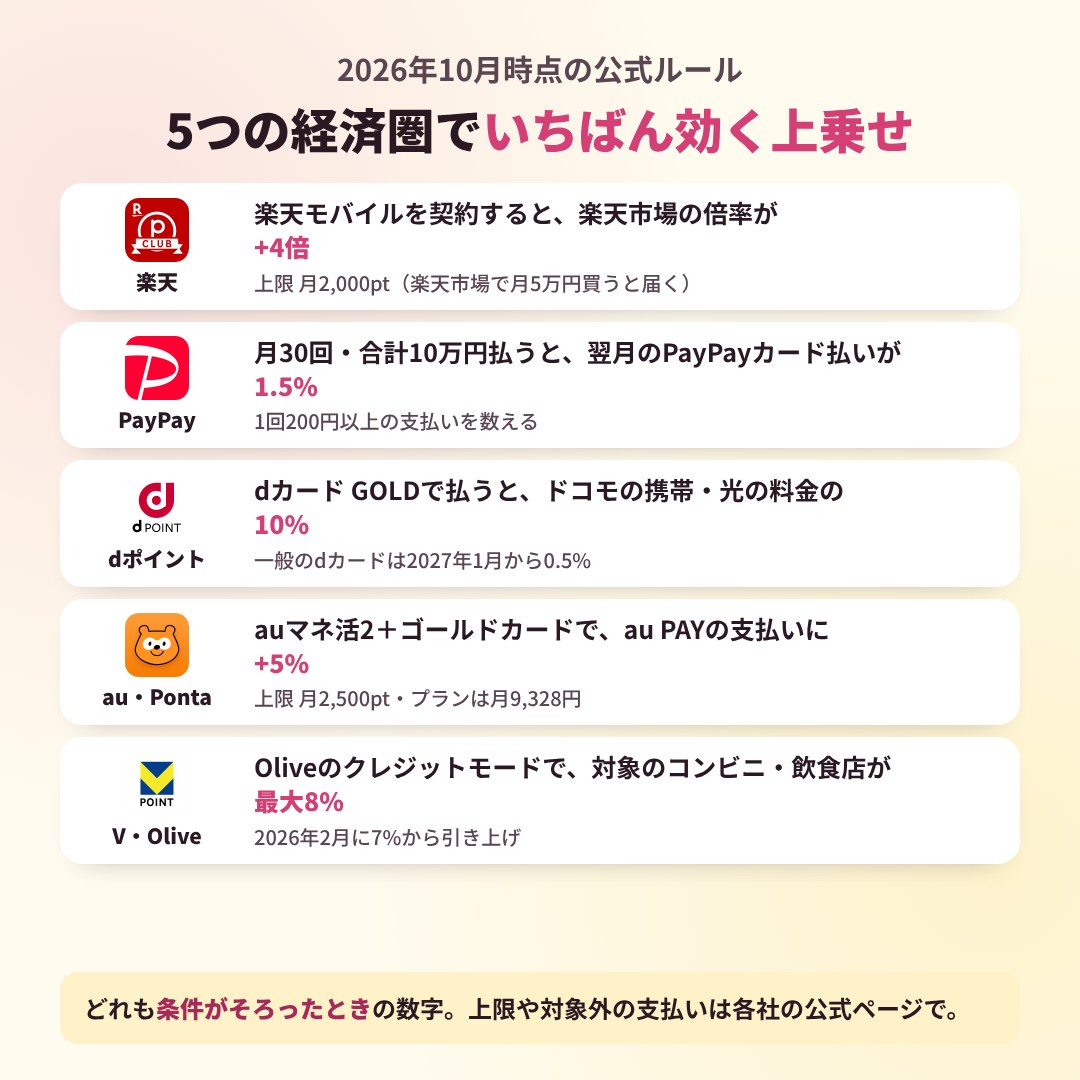
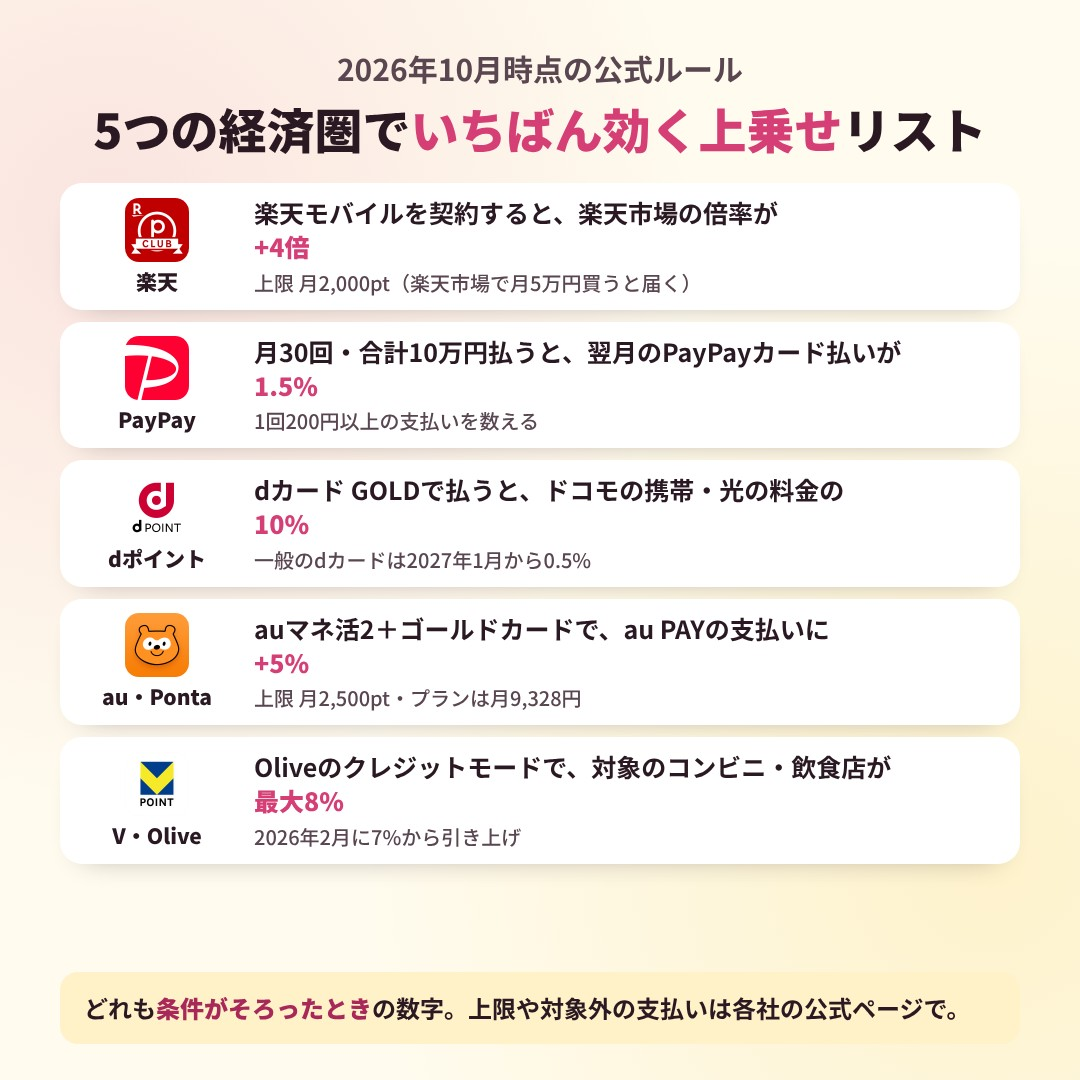
ポイント経済圏: 利用者のレビュー 6 件と [2/2] の書き換えを反映（画像 2 枚に・見出しにリスト・冒頭を効率の軸に・実績の言い方を柔らかく）
Claude-Session: https://claude.ai/code/session_01H2JQqdMCeKNiMVUTrAyX2t

Changed region(s): [[0.0917, 0.0917, 0.9167, 0.1528]]

diff --git a/scripts/image-review/page.html b/scripts/image-review/page.html
@@ -483,13 +483,12 @@
     },
     {
       // **未投稿**（2026-10-18 に指示）。素材はロゴ（App Store に提供元が登録したアイコン）だけ。SNS の投稿者名は出さない
-      key: "points", title: "ポイント経済圏 比較2026（SNSの実績13件）", slug: "point-economy-real-results-2026",
-      attach: "[1/2]（4枚）",
+      key: "points", title: "ポイント経済圏 比較2026（Xの実績をもとにリサーチ）", slug: "point-economy-real-results-2026",
+      attach: "[1/2]（2枚）",
       images: [
-        { file: "1-calc.jpg",  name: "1枚目", cap: "年92,535pt ÷ 1.5% ＝ 約617万円（逆算）" },
-        { file: "2-rules.jpg", name: "2枚目", cap: "5つの経済圏でいちばん効く上乗せ" },
-        { file: "3-real.jpg",  name: "3枚目", cap: "月2万pt超の4人は全員、経済圏を組み合わせていた" },
-        { file: "4-how.jpg",   name: "4枚目", cap: "経済圏を選ぶ順番" }
+        // 2026-10-31 利用者のコメントで 1 枚目（逆算・「表紙としてキャッチーじゃない」）と 3 枚目（実績の 4 人・「荒れる可能性」）を外した
+        { file: "2-rules.jpg", name: "1枚目", cap: "5つの経済圏でいちばん効く上乗せリスト" },
+        { file: "4-how.jpg",   name: "2枚目", cap: "経済圏を選ぶ順番" }
       ]
     },
     {
